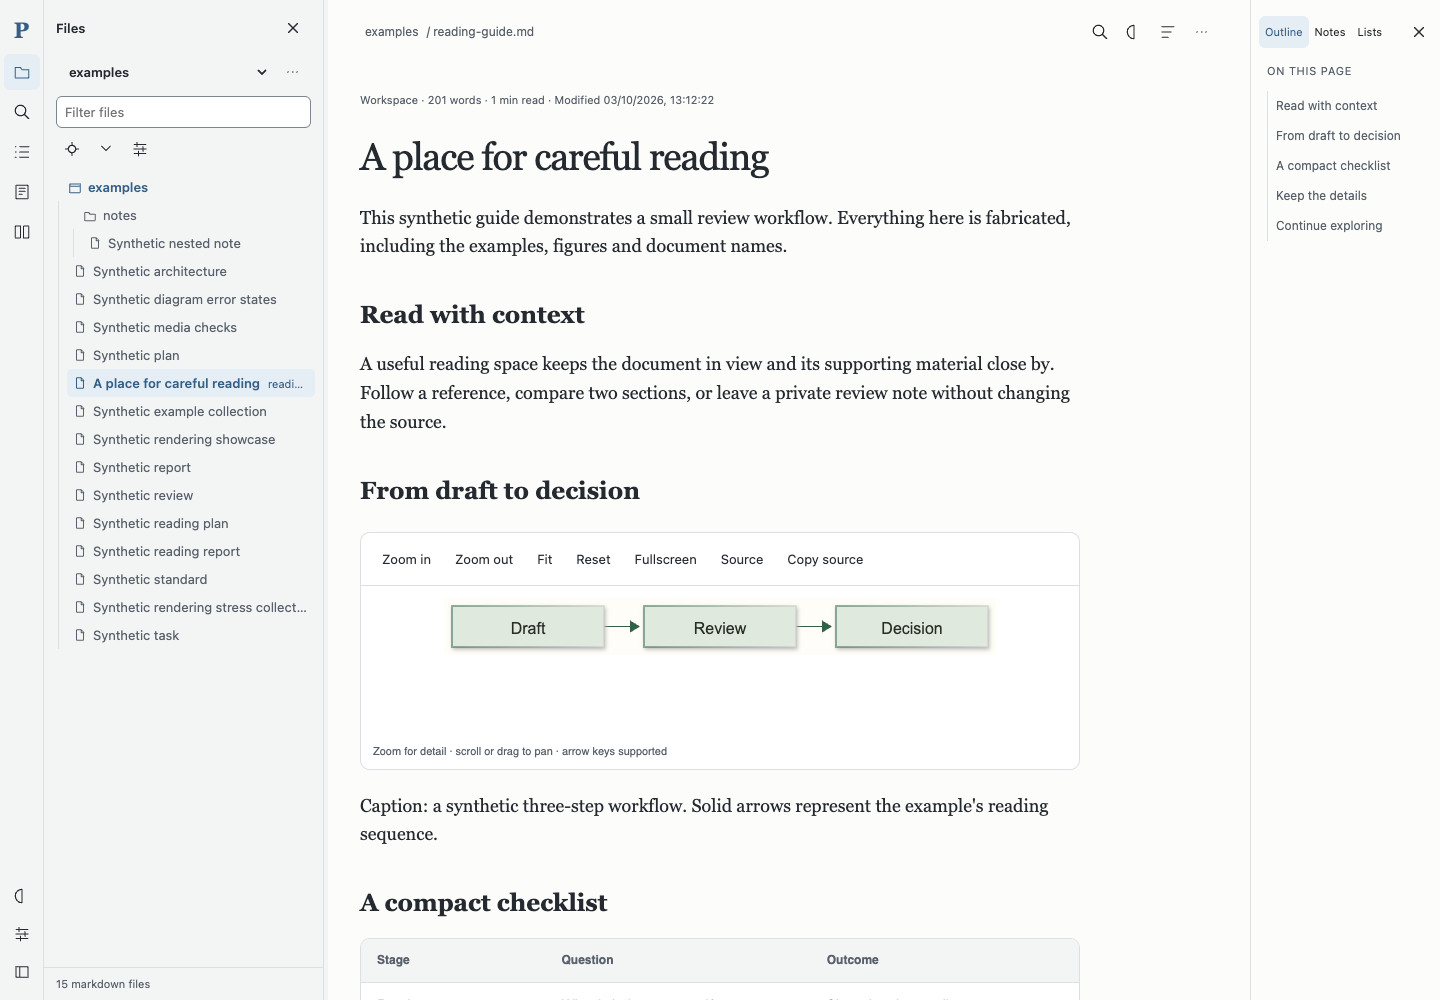
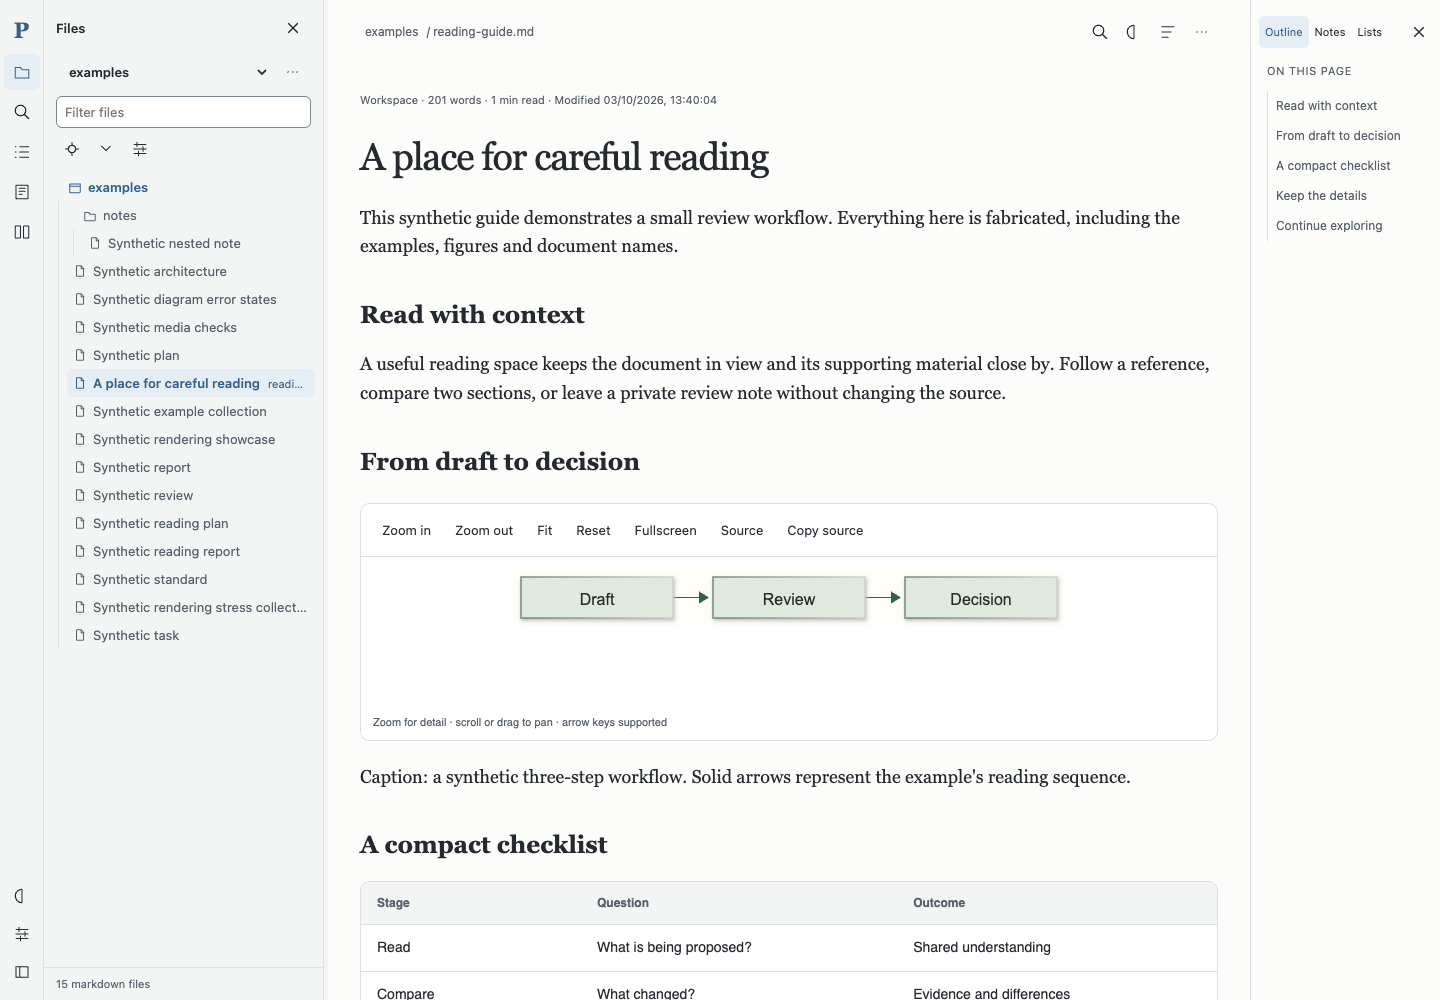
docs: describe fill-first reading and refresh guide images

diff --git a/docs/ARCHITECTURE.md b/docs/ARCHITECTURE.md
@@ -2,12 +2,13 @@
 
 ## Implemented: shared reading layout
 
-`reading-layout.js` coalesces document-ready, appearance and article-resize changes into one animation-frame measurement. Existing technical DOM is measured and restored synchronously, without cloning frames or re-running document scripts. Validated diagram viewBox width and image metadata avoid depending on fitted display size. The 1400px container bounds all main-document blocks; measured prose and short blocks align left, while intrinsically wide content spans the container. Image/math-only paragraph wrappers participate in the same rule. `stableChange` preserves the visible reading anchor during reclassification. Compare retains its independent pane sizing.
+`reading-layout.js` coalesces document-ready, appearance and article-resize changes into one animation-frame measurement. Existing technical DOM is measured and restored synchronously, without cloning frames or re-running document scripts. Validated diagram viewBox width and image metadata avoid depending on fitted display size. The 1800px container bounds all main-document blocks; measured prose and short blocks align left, while intrinsically wide content spans the container. Image/math-only paragraph wrappers participate in the same rule. `stableChange` preserves the visible reading anchor during reclassification. Compare retains its independent pane sizing.
 
-Appearance normalization preserves valid stored measures, clamps to 60–140, defaults to 80, and stores a strict Fill boolean in reader-owned browser storage. `appearance-popover.js` uses a nonmodal anchored dialog, existing controls and explicit outside/Escape dismissal. A reserved narrow bottom strip keeps the menu outside the document viewport. See [layout decision](decisions/0011-shared-reading-edge.md) for alternatives, measurement cost and compatibility effects.
+Appearance normalization preserves valid stored measures, clamps to 60–140, defaults the line limit to 80, and stores a strict Fill boolean in reader-owned browser storage. New/reset/unset Fill is on; saved explicit off is preserved. Maximum line length is exposed only with Fill off. The single `--reading-container-cap` constant in `polish.css` bounds article and wrapper in both normal and Focus modes. `appearance-popover.js` uses a nonmodal anchored dialog, existing controls and explicit outside/Escape dismissal. A reserved narrow bottom strip keeps the menu outside the document viewport. See [layout decision](decisions/0011-shared-reading-edge.md) for alternatives, measurement cost and compatibility effects.
 
 | Invariant / mitigation | Regression evidence |
 | --- | --- |
+| Default prose fills available container through resizing/panel/Focus changes; unset Fill migrates, explicit off persists, Reset fills | [Fill checks](../tests/fill-browser.mjs): 1200/1440/1715/1920 plus 2560px cap; [normalization tests](../tests/reading.test.js) |
 | Heading text and prose/technical boxes share a left edge within 1px; wide blocks reach the right edge | [Polish browser checks](../tests/polish-browser.mjs): 1920/1440/1024, normal/focus, panels open/closed |
 | Short code/table/diagram/math remain measured; Fill persists, expands prose and resets | Same browser checks, plus [normalization tests](../tests/reading.test.js) |
 | Menu cannot cover visible document content at 390/768; Appearance is nonmodal with keyboard and outside dismissal | Same browser checks |

diff --git a/README.md b/README.md
@@ -17,7 +17,7 @@ Open `http://127.0.0.1:8765`. Repeat `--root` for multiple startup folders; Ctrl
 
 Passage uses a full-height icon rail, a compact section panel and a page header inside the reading column—not a stacked toolbar. Files, content Search, Lists, Notes and Compare are on the rail. Show rail labels if you prefer text. Below 1024px, the floating menu button opens these sections as a drawer.
 
-Open `reading-guide.md` for the clean synthetic tour. One centred container, up to 1,400px, gives headings, prose and technical blocks a shared left edge. Text defaults to 80 nominal characters (adjustable 60–140), with a persisted Fill window option. Short technical blocks stay at prose width; intrinsically wide code, tables, diagrams, images and display equations use the full container. Existing valid width preferences survive; Reset restores 80 and turns Fill off. The measure is a proportional-font estimate, not an exact character count.
+Open `reading-guide.md` for the clean synthetic tour. One centred container, up to 1,800px, gives headings, prose and technical blocks a shared left edge. **Fill window is on by default**, so prose follows the available width as you resize, toggle panels or enter Focus. Turn Fill window off to reveal **Maximum line length** (60–140 nominal characters, default 80). In that mode, short technical blocks stay at prose width; intrinsically wide code, tables, diagrams, images and display equations use the full container. Saved explicit Fill choices survive, including off; only unset values take the new default. Reset turns Fill on and restores the stored line limit to 80. The limit is a proportional-font estimate, not an exact character count. The cap is defined once as `--reading-container-cap` in `web/polish.css`.
 
 The Outline/Notes/Lists panel collapses below 1280px. Search or jump opens Quick open or Commands with their shortcuts. Appearance is an anchored, no-scrim popover with Light/Dark/Auto, typeface, live size/width values and Focus. Escape, Close and outside click return focus to its trigger. Below 1024px, a bottom control strip keeps the menu clear of document text. The first-run hint is hidden there. More actions holds export, print, references and navigation.
 

diff --git a/docs/decisions/0011-shared-reading-edge.md b/docs/decisions/0011-shared-reading-edge.md
@@ -38,3 +38,13 @@ Large-document profiling identifies excessive measurement costs, wider assistive
 ## Sources
 
 [Layout implementation](../../web/reading-layout.js), [appearance normalization](../../web/appearance.js), [popover behavior](../../web/appearance-popover.js), [layout and keyboard checks](../../tests/polish-browser.mjs), [appearance unit checks](../../tests/reading.test.js).
+
+## Addendum — 2026-10-03: Fill by default
+
+The original decision above is retained. New/reset appearance and previously unset Fill now use **on**, in both normal and Focus modes. Explicit stored boolean choices remain unchanged, including off. Invalid nonboolean data is still rejected as false rather than accepted as an explicit setting. The Fill window switch precedes a Maximum line length control, visible only when Fill is off; its 60–140 range/default 80 and proportional-font estimate are unchanged.
+
+The centred container cap increases to 1800px, defined once by `--reading-container-cap` in [polish styles](../../web/polish.css) and reused by article and wrapper. Below that cap it follows the available reading area after panels and padding. The existing intrinsic technical-block rule is unchanged; when filling, prose and technical block boxes use the container width.
+
+Keeping measured prose as default would retain shorter lines but leave the available right-hand space unused. Automatically filling only Focus would produce different mode-dependent behavior. Filling by default in both modes is selected for predictable resizing; readers preferring shorter lines can explicitly turn it off. The generous cap prevents unbounded ultrawide lines but is not a readability or accessibility guarantee. No dependency, sandbox, source-write or media-rendering change is involved. Revisit if user feedback calls for a different default or cap.
+
+[Fill browser checks](../../tests/fill-browser.mjs) exercise four desktop widths, normal/Focus and panel combinations, ultrawide centring/cap, unset migration, explicit-off persistence, conditional control visibility and reset. Existing alignment and rendering checks remain active.

diff --git a/docs/feature-audit.md b/docs/feature-audit.md
@@ -1,5 +1,7 @@
 # Verified feature audit
 
+Fill-first update: new/unset/reset preferences fill the reading container, normal and Focus alike; saved explicit off remains off. Maximum line length appears only with Fill off. One centred 1800px cap replaces the earlier 1400px cap. [Default and persistence checks](../tests/fill-browser.mjs) supplement existing alignment/keyboard/rendering coverage. Earlier entries below describe historical defaults.
+
 Visual polish: implemented shared left edge in a centred 1400px container; 80-character nominal default, 60–140 range and persisted/resettable Fill window; intrinsic short/wide block selection; margin heading anchors; no-scrim anchored Appearance with grouped controls and focus restoration; bottom menu clearance on narrow screens; icon Peek and full-title tooltips. The panel defaults to 280px. [Geometry and keyboard checks](../tests/polish-browser.mjs) cover desktop/focus/panel combinations and 390/768px clearance. The older entries below are historical; [decision 0011](decisions/0011-shared-reading-edge.md) supersedes the earlier measure and Appearance choices.
 
 Reading-shell update: full-height section rail with remembered labels; compact Files/content Search and reusable Lists/Notes panels; in-document page actions and tabbed outline; small-screen section drawers; 68ch default text and wide technical blocks; Focus overlay and Escape exit. Menus and tree have explicit keyboard navigation. Folder eligibility is displayed before Add. Clean synthetic screenshot contexts replace reused hostile-fixture images. See [shell decision](decisions/0010-reading-shell.md) for compatibility and remaining audit limits.

diff --git a/CHANGELOG.md b/CHANGELOG.md
@@ -1,5 +1,11 @@
 # Changelog
 
+## Fill-first reading
+
+- New, unset and reset appearance preferences fill the reading area by default, in normal and Focus modes. Saved explicit Fill off/on choices remain respected.
+- Maximum line length (60–140, default 80) is shown only when Fill window is off. One shared 1800px cap bounds the centred reading container on ultrawide screens.
+- Added responsive default/persistence/reset checks and refreshed clean-guide screenshots; other reading and security behavior is unchanged.
+
 ## Shared reading edge and visual polish
 
 - Centred 1400px reading container with one left edge, measured prose and intrinsic short/wide technical blocks; heading anchors no longer indent heading text.
